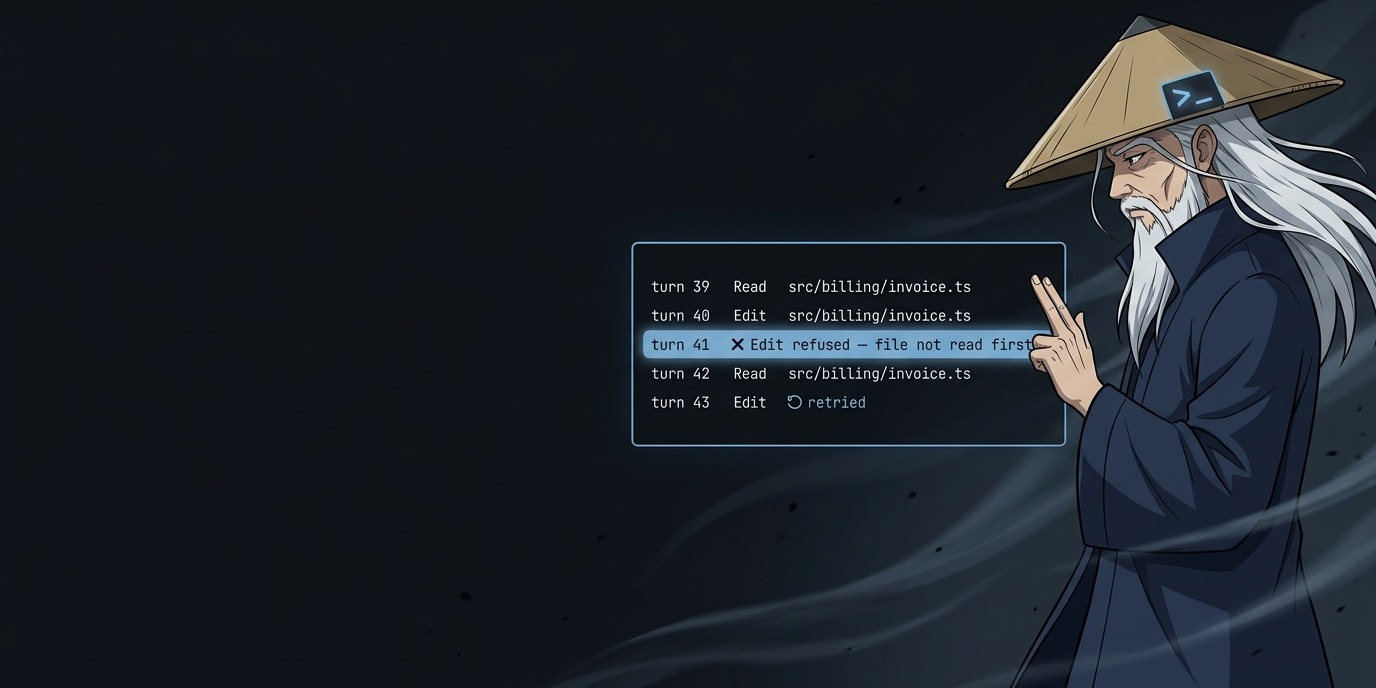
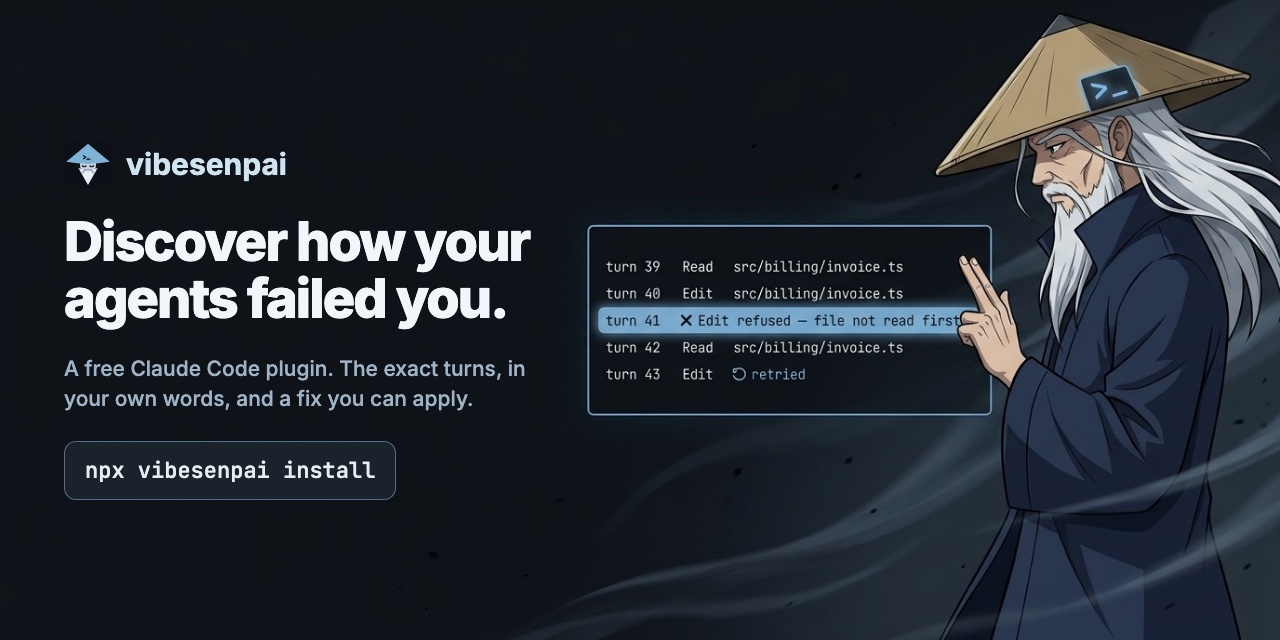
Home page: Star on GitHub link; new preview image; README star line
The link has no count and Umami counts its clicks (github-star). og.jpg
now carries the headline and the npx command.

diff --git a/README.md b/README.md
@@ -94,6 +94,8 @@ There are no runtime dependencies, on purpose. `npm run verify:corpus` fails if
 any published count changes or anything leaks; it fetches the public corpus it
 needs.
 
+If it found something real in your sessions, a [star](https://github.com/vibesenpai/vibesenpai) helps other people find it.
+
 ## License
 
 MIT. See [LICENSE](LICENSE).
